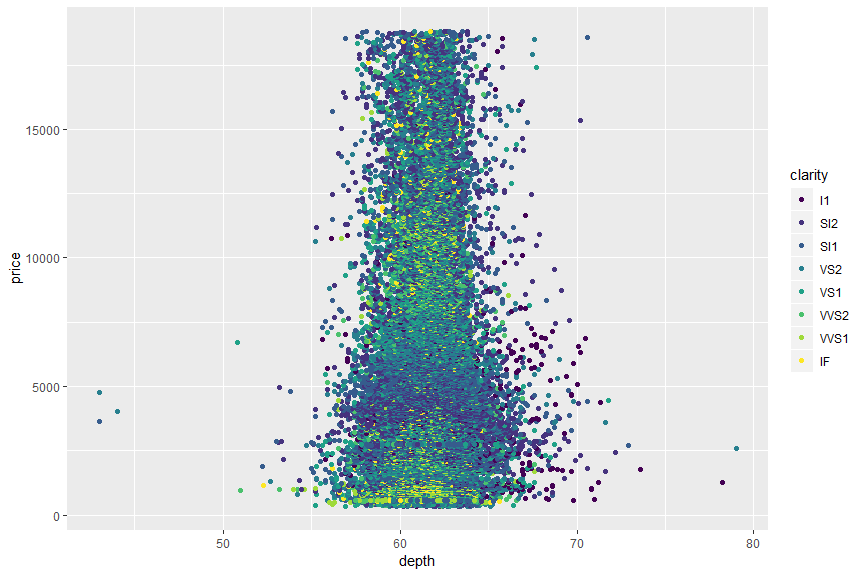
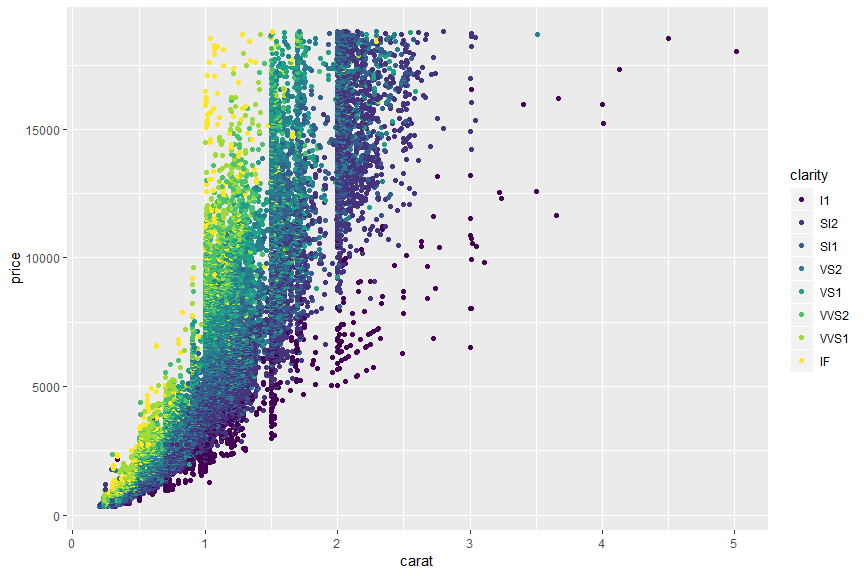
revisi pendahuluan week2

diff --git a/vignettes/001_pendahuluan.md b/vignettes/001_pendahuluan.md
@@ -87,7 +87,7 @@ library(ggplot2)
 Anda dapat menggunakan fungsi `qplot()` untuk membuat grafik menggunakan ggplot2. Silakan jalankan `help(qplot)` atau `?qplot` pada konsol RStudio untuk membuka laman dokumentasi fungsi `qplot()`. Dalam contoh ini Anda akan membuat grafik dari dataset diamonds yang tersedia dalam paket ggplot2. Anda dapat melihat isi serta dokumentasi dari dataset tersebut dengan menjalankan `diamonds` dan `?diamonds` di konsol RStudio. Setelah Anda membaca dokumentasi fungsi `qplot()` dan dataset diamonds tersebut, isilah bagian \_\_\_ pada *chunk* berikut untuk membuat grafik hubungan antara berat (sumbu x), harga (sumbu y) dan kejernihan intan dari dataset diamonds.
 
 ``` r
-qplot(x = depth, y = price, colour = clarity, data = diamonds)
+qplot(x = carat, y = price, colour = clarity, data = diamonds)
 ```
 
 <img src="001_pendahuluan_files/figure-markdown_github/plot-diamonds1-1.png" style="display: block; margin: auto;" />
